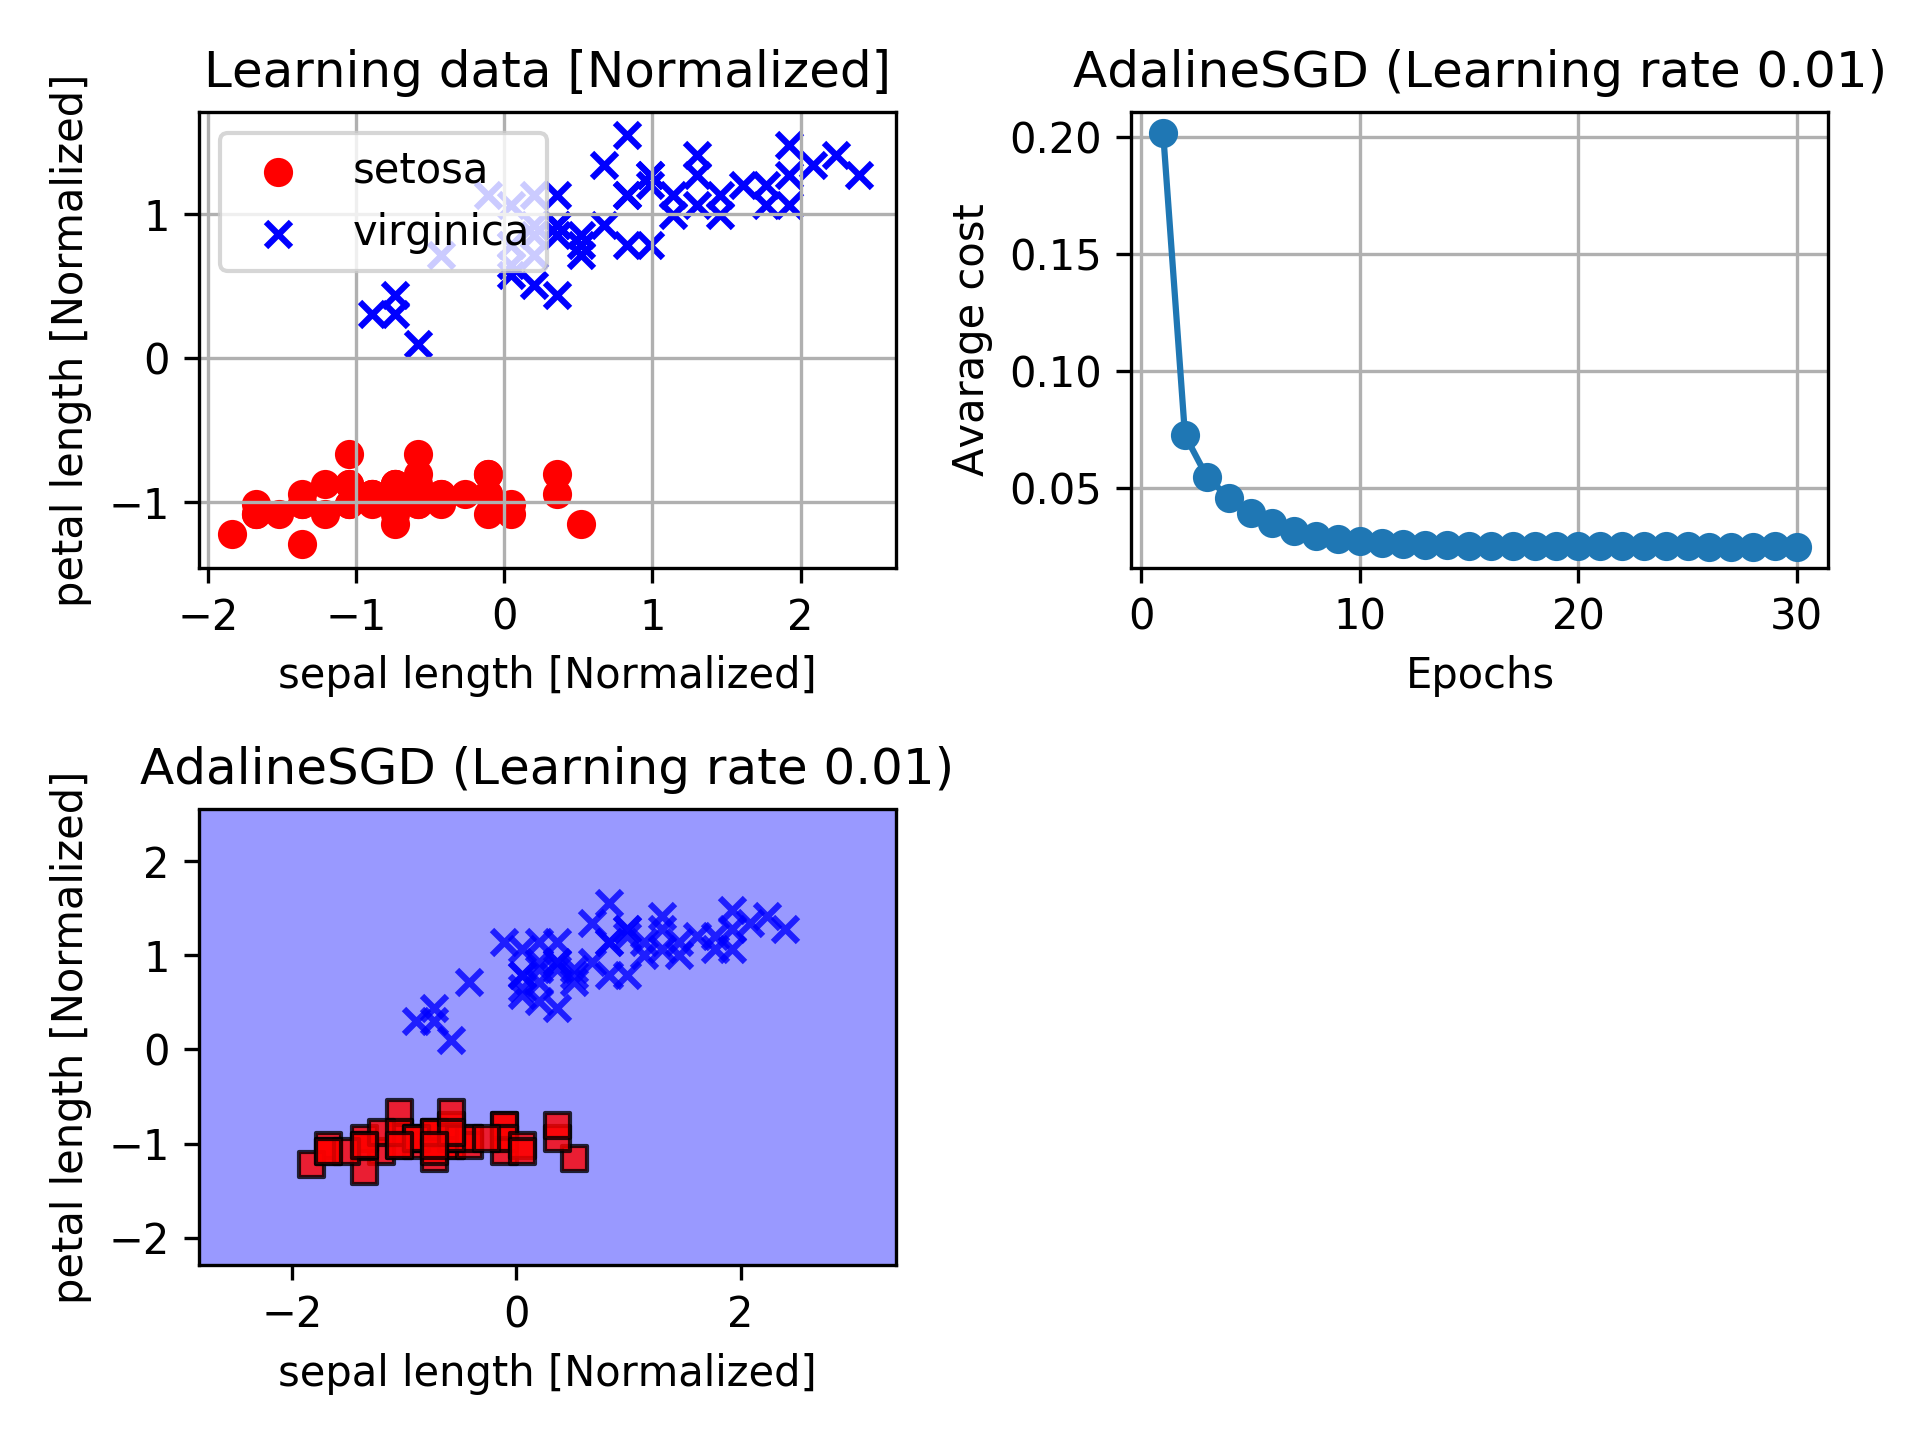
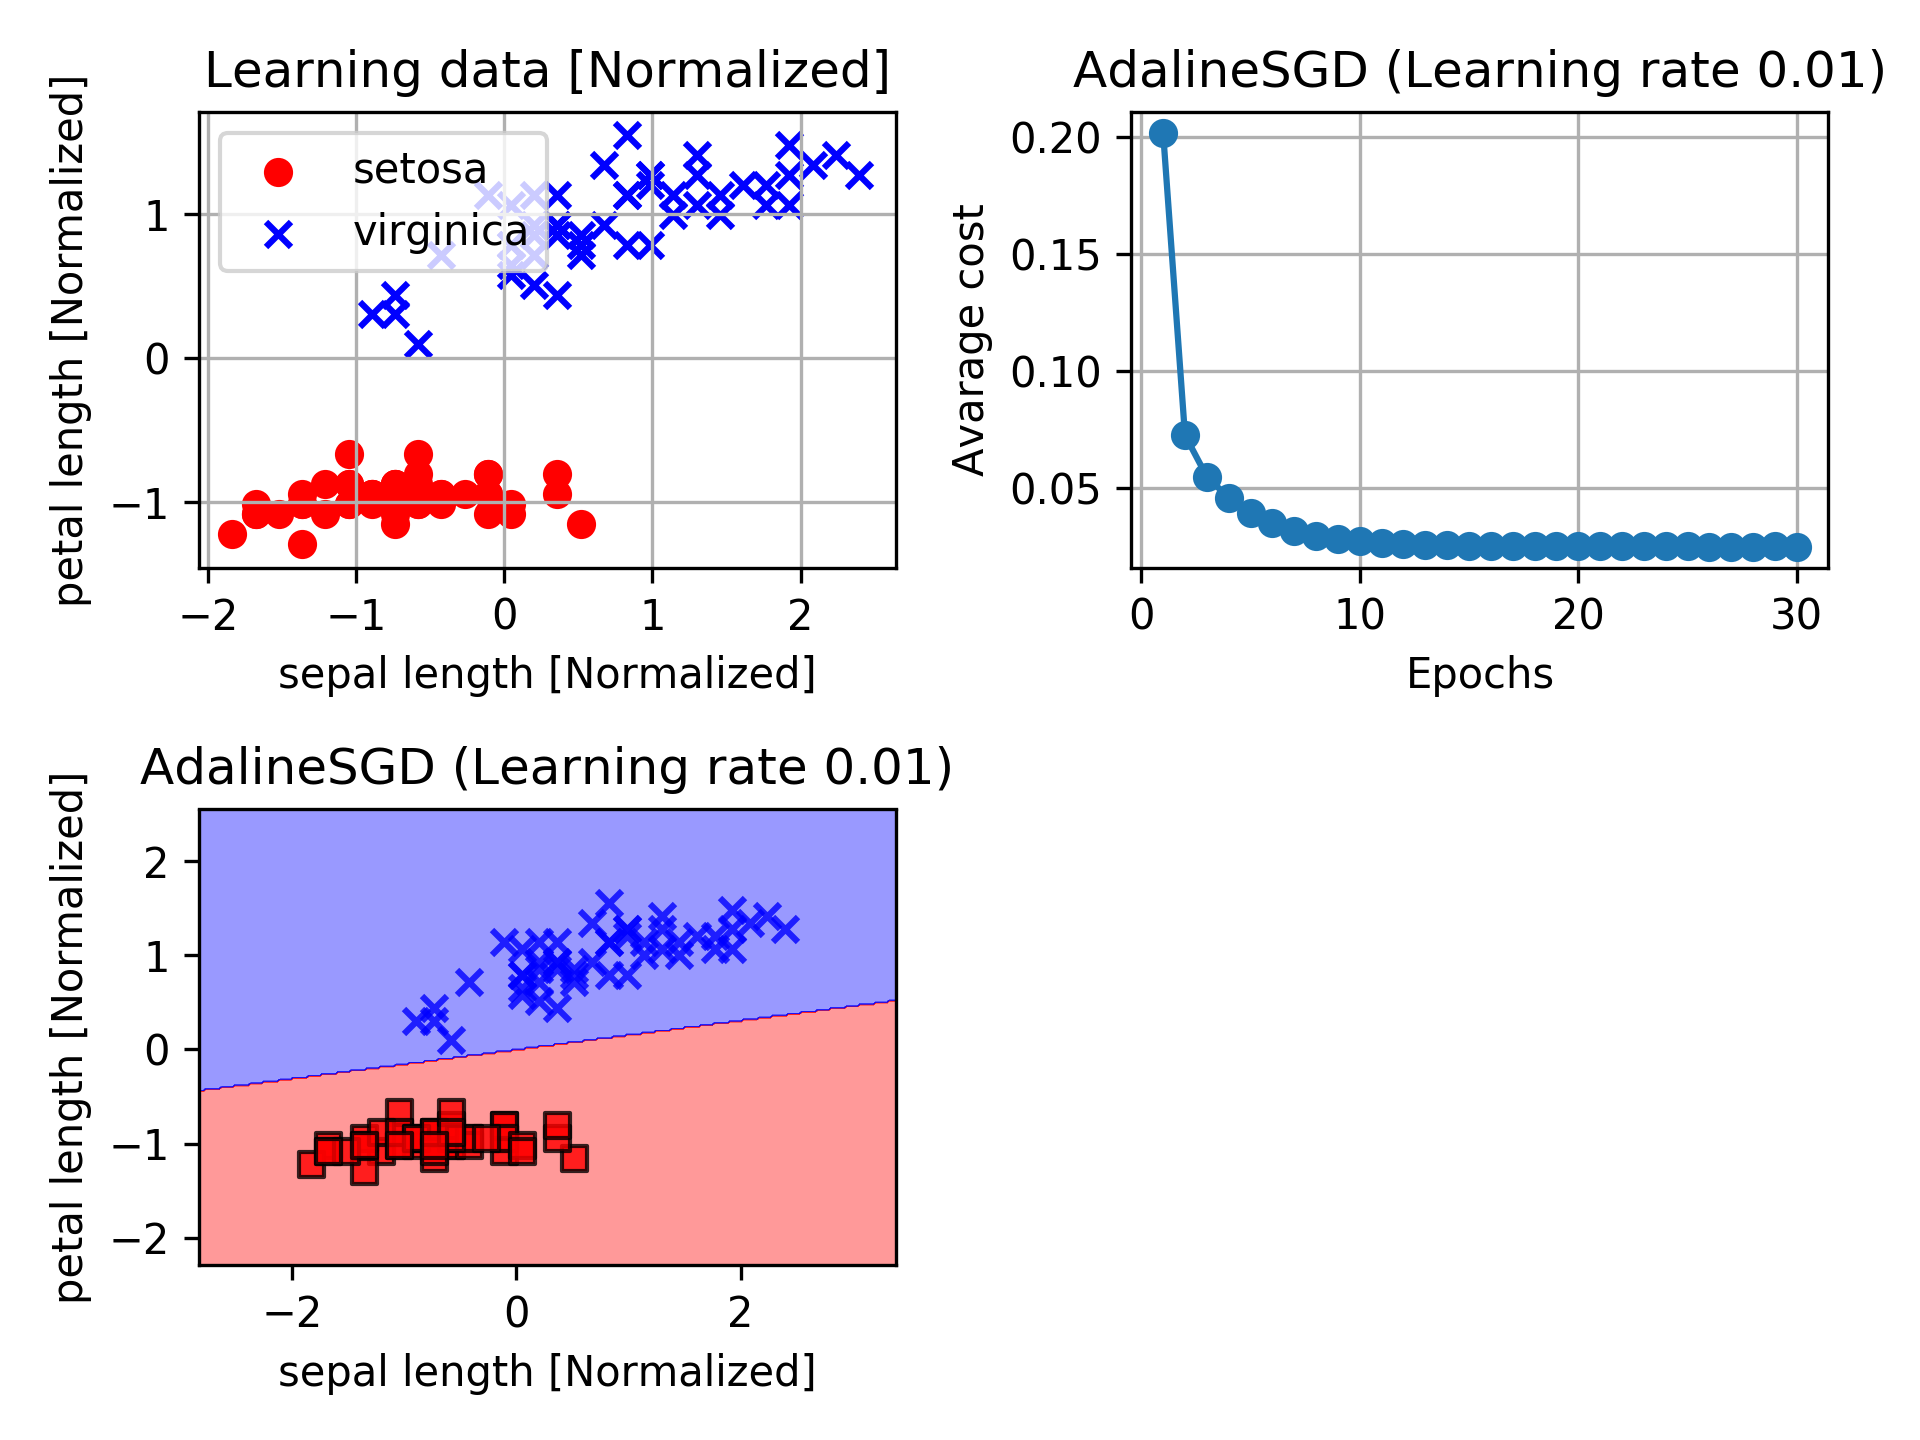
Add files via upload

Changed region(s): [[0.0938, 0.6875, 0.4688, 0.875]]

diff --git a/AdaLineSGD/AdaLineSGD.py b/AdaLineSGD/AdaLineSGD.py
@@ -35,7 +35,7 @@ class AdaLineSGD(object):
 
     def __init__( self, lRate=0.01, numIter=10, shuffle=True, random_state=None ):
         """ AdaLineSGDクラスのコンストラクタ. AdaLineSGD オブジェクトを生成 """
-        self.eta = lRate
+        self.lRate = lRate
         self.numIter = numIter
         self.w_initialized = False
         self.shuffle = shuffle
@@ -132,8 +132,8 @@ class AdaLineSGD(object):
         error = ( yi - output )
 
         # 重みベクトルを更新する
-        self.weights_[1:] += self.eta * xi.dot(error)
-        self.weights_[0] += self.eta * error
+        self.weights_[1:] += self.lRate * xi.dot(error)
+        self.weights_[0] += self.lRate * error
 
         # コスト関数 J の値を計算
         cost = (1/2) * (error**2)
@@ -150,4 +150,4 @@ class AdaLineSGD(object):
     
     def predict( self, X_train ):
         """ 1Step 後のクラスラベルを返す"""
-        return numpy.where( self.calcActivation(X_train), +1, -1 )
+        return numpy.where( self.calcActivation(X_train) >= 0.0, 1, -1 )
